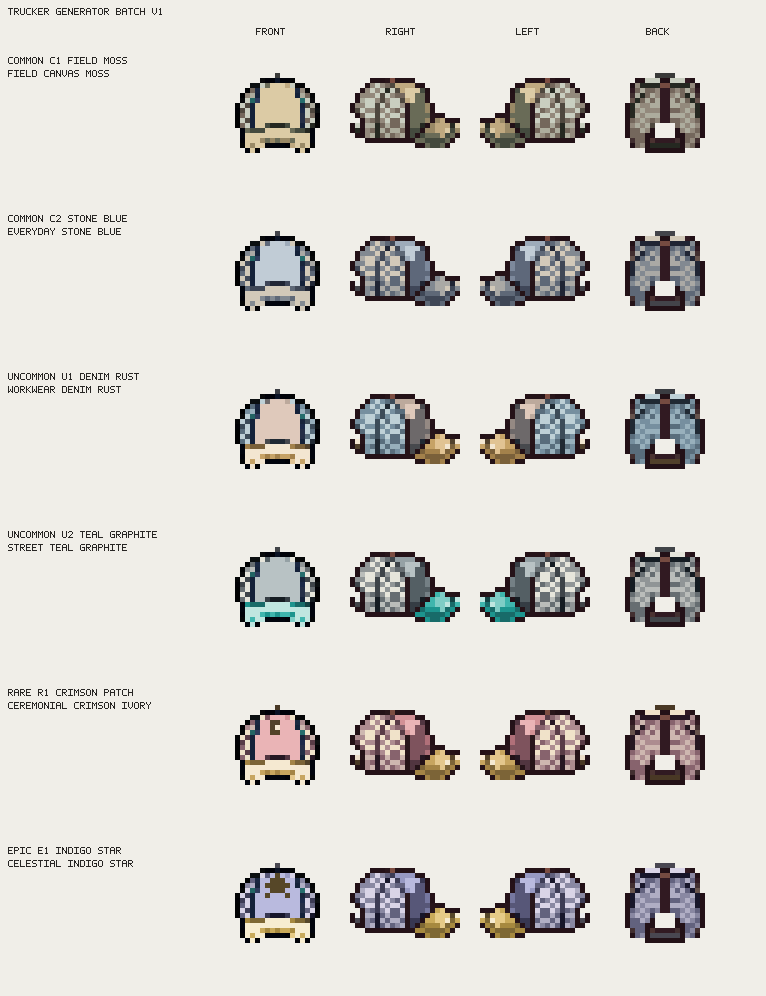
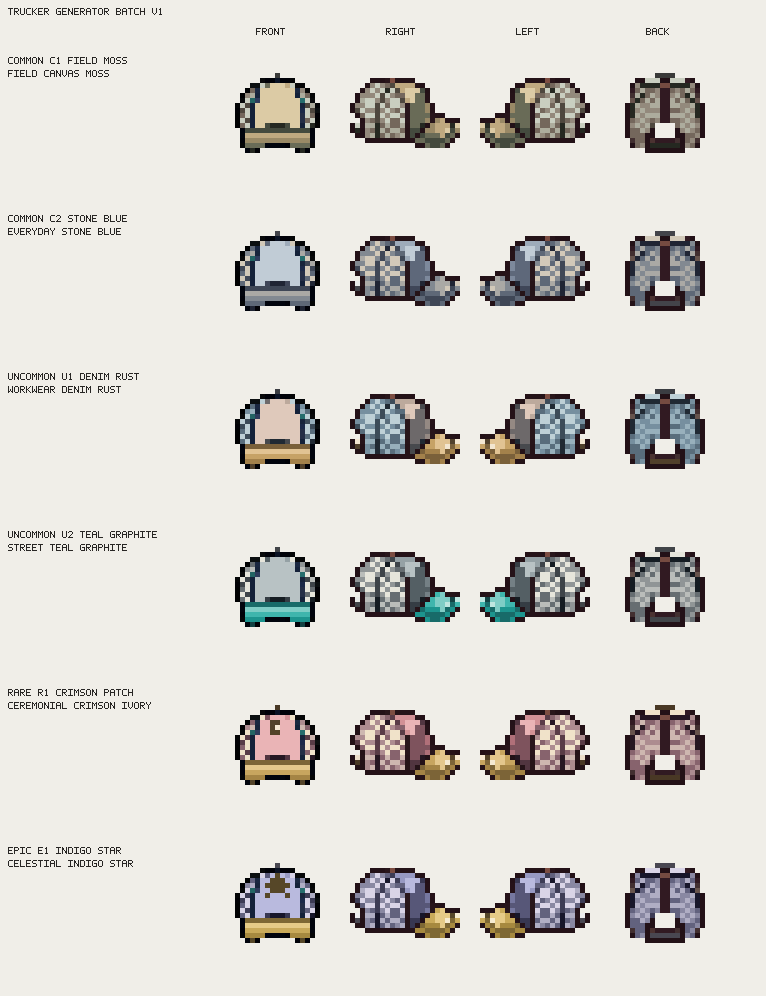
Match trucker front visor shading to side views

diff --git a/tools/build_trucker_generator_batch_v1.py b/tools/build_trucker_generator_batch_v1.py
@@ -42,6 +42,31 @@ def rank_map(frame,cells,ramp):
   out[y][x]=(*ramp[ri],p[3])
  return out
 
+def shade_front_brim_like_side(frame,cells,ramp):
+    """Give the front visor the same light-to-underside hierarchy as side views.
+
+    The approved front source has two isolated tip pixels and a large flat light
+    run. Keep alpha/silhouette unchanged, but fold those tips into the darkest
+    visor shade and use a side-like vertical value progression.
+    """
+    out=[row[:] for row in frame]
+    ys=[y for x,y in cells]
+    if not ys:
+        return out
+    lo,hi=min(ys),max(ys)
+    # darkest..lightest ramp. Use brighter upper plane, darker lower/underside.
+    row_index={lo:1, lo+1:4, lo+2:3, lo+3:2, hi:0}
+    for x,y in cells:
+        idx=row_index.get(y,2)
+        idx=max(0,min(len(ramp)-1,idx))
+        out[y][x]=(*ramp[idx],frame[y][x][3])
+    # The two source-authored tip cells remain opaque but visually join the
+    # outline/underside instead of reading as two bright disconnected dots.
+    for x,y in cells:
+        if y==hi:
+            out[y][x]=(*ramp[0],frame[y][x][3])
+    return out
+
 def motif_cells(name):
  im=read_rgba_png(MOTIFS/f'{name}.png')
  pts=[(x,y,p) for y,row in enumerate(im) for x,p in enumerate(row) if p[3]]
@@ -76,7 +101,11 @@ def render_variant(base,masks,pal,spec):
  cmap={'front_panel':spec['panel'],'rear_mesh':spec['mesh'],'brim':spec['brim'],'top_button':spec['button'],'back_closure':spec['closure']}
  for v in VIEWS:
   fr=[row[:] for row in base[v]]
-  for comp,ramp_name in cmap.items(): fr=rank_map(fr,masks[v][comp],ramps[ramp_name])
+  for comp,ramp_name in cmap.items():
+   if v=='front' and comp=='brim':
+    fr=shade_front_brim_like_side(fr,masks[v][comp],ramps[ramp_name])
+   else:
+    fr=rank_map(fr,masks[v][comp],ramps[ramp_name])
   if v=='front' and spec.get('motif_asset'):
    fr=apply_front_motif(fr,masks[v]['front_panel'],spec['motif_asset'],ramps['accent'],tuple(TPL.anchors['front']['motif_center']))
   if alpha_cells(fr)!=alpha_cells(base[v]): raise ContractError(f'{v}: alpha changed')

diff --git a/CURRENT_STATE.md b/CURRENT_STATE.md
@@ -1564,3 +1564,14 @@ Implementation/proof:
 - `experiments/trucker_chromatic_outline_ab_01/TRUCKER_CHROMATIC_OUTLINE_AB.png`
 
 This is currently an experimental finish pass, not yet promoted to production. Human visual approval of the A/B is required before applying it generator-wide.
+
+## Trucker front-visor consistency fix — 2026-09-27
+
+Front visor finishing was revised to follow the stronger side-view visor value hierarchy without changing geometry.
+
+- Only front-view brim RGB was changed; Right/Left/Back frames are byte-identical to the prior batch.
+- 40 front-view brim pixels per variant changed, bounded to x=7..19 / y=16..20.
+- Alpha/silhouette remained exact.
+- The two isolated lower tip cells remain opaque for silhouette fidelity but now use the darkest visor shade, so they visually merge into the underside instead of reading as bright stray dots.
+- Front visor now uses an explicit upper-plane -> midtone -> underside-dark progression based on the side-view visor treatment rather than source-luminance rank alone.
+- `tools/build_trucker_generator_batch_v1.py` now applies this front-only visor finish consistently to every generated trucker variant.
